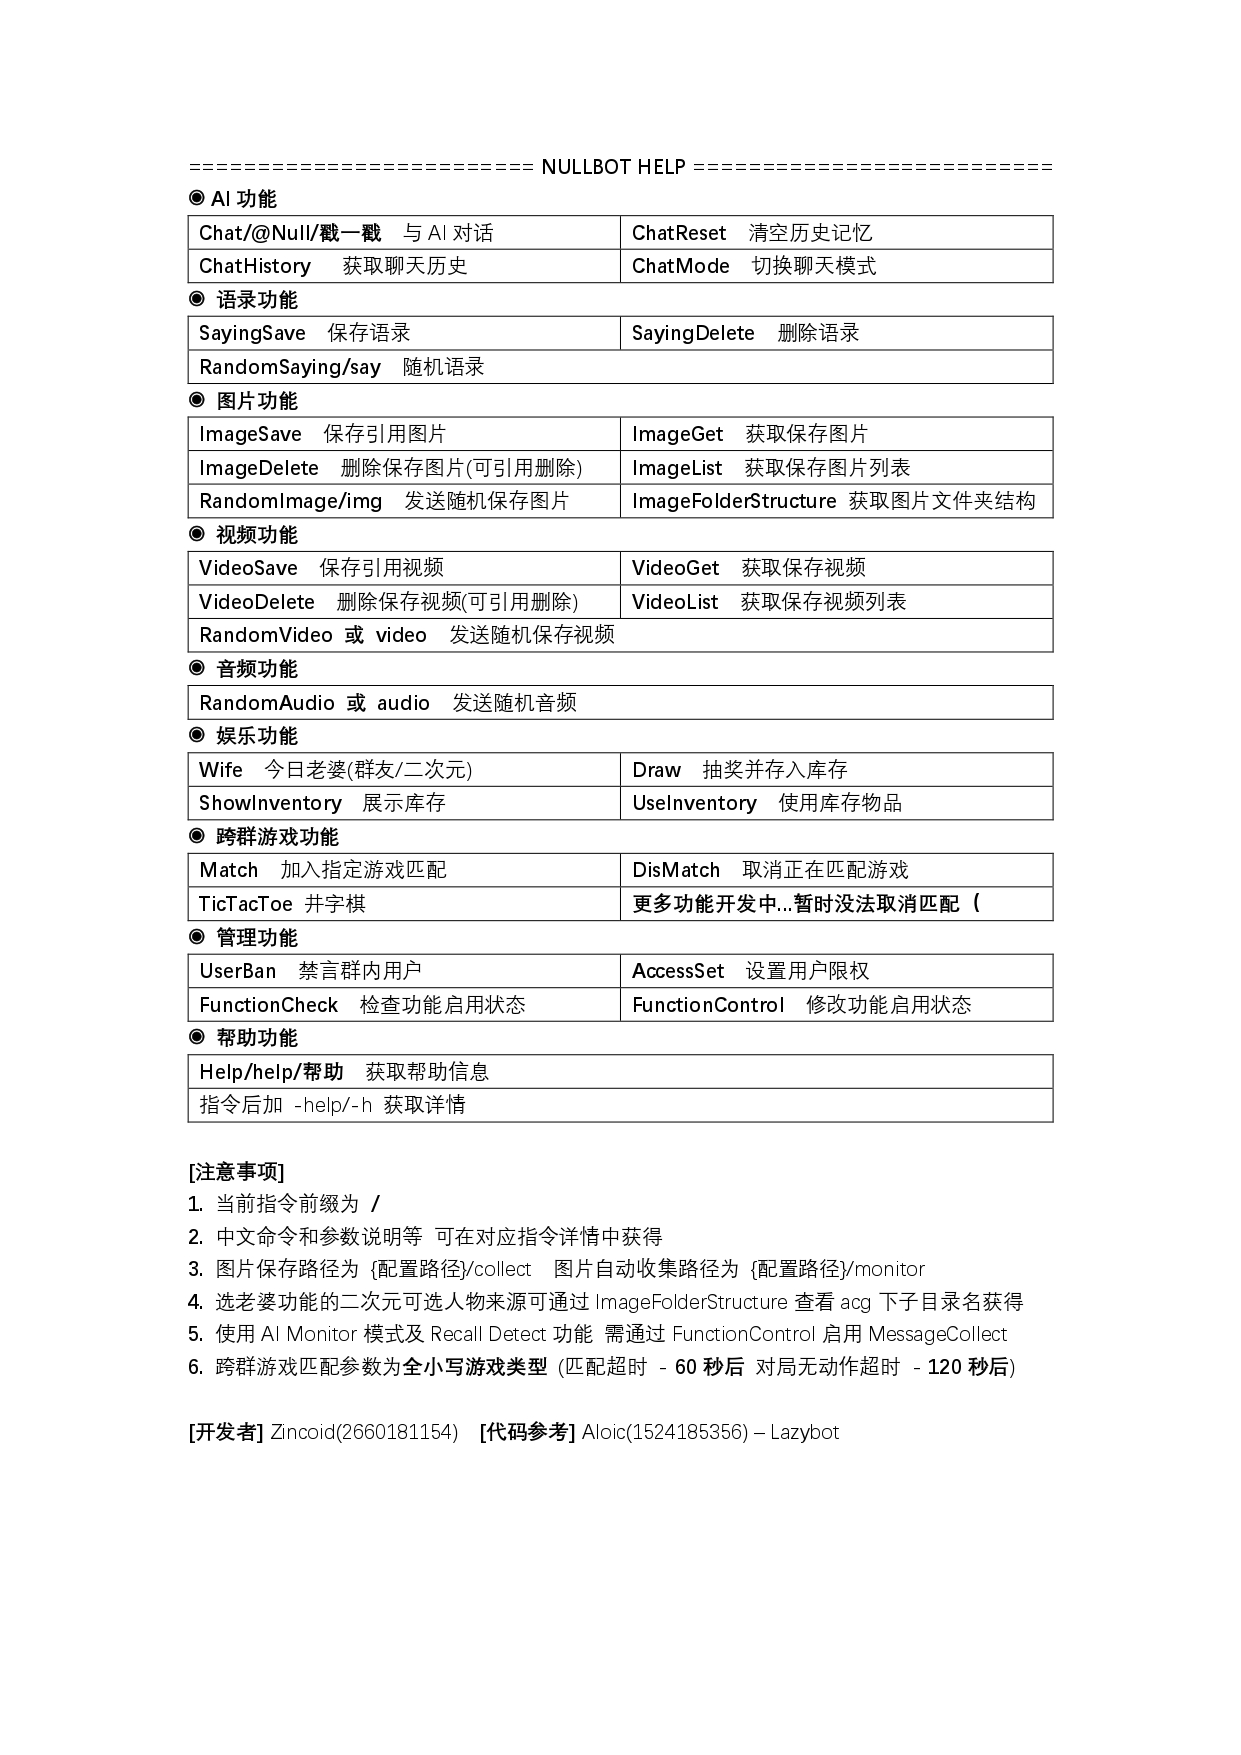
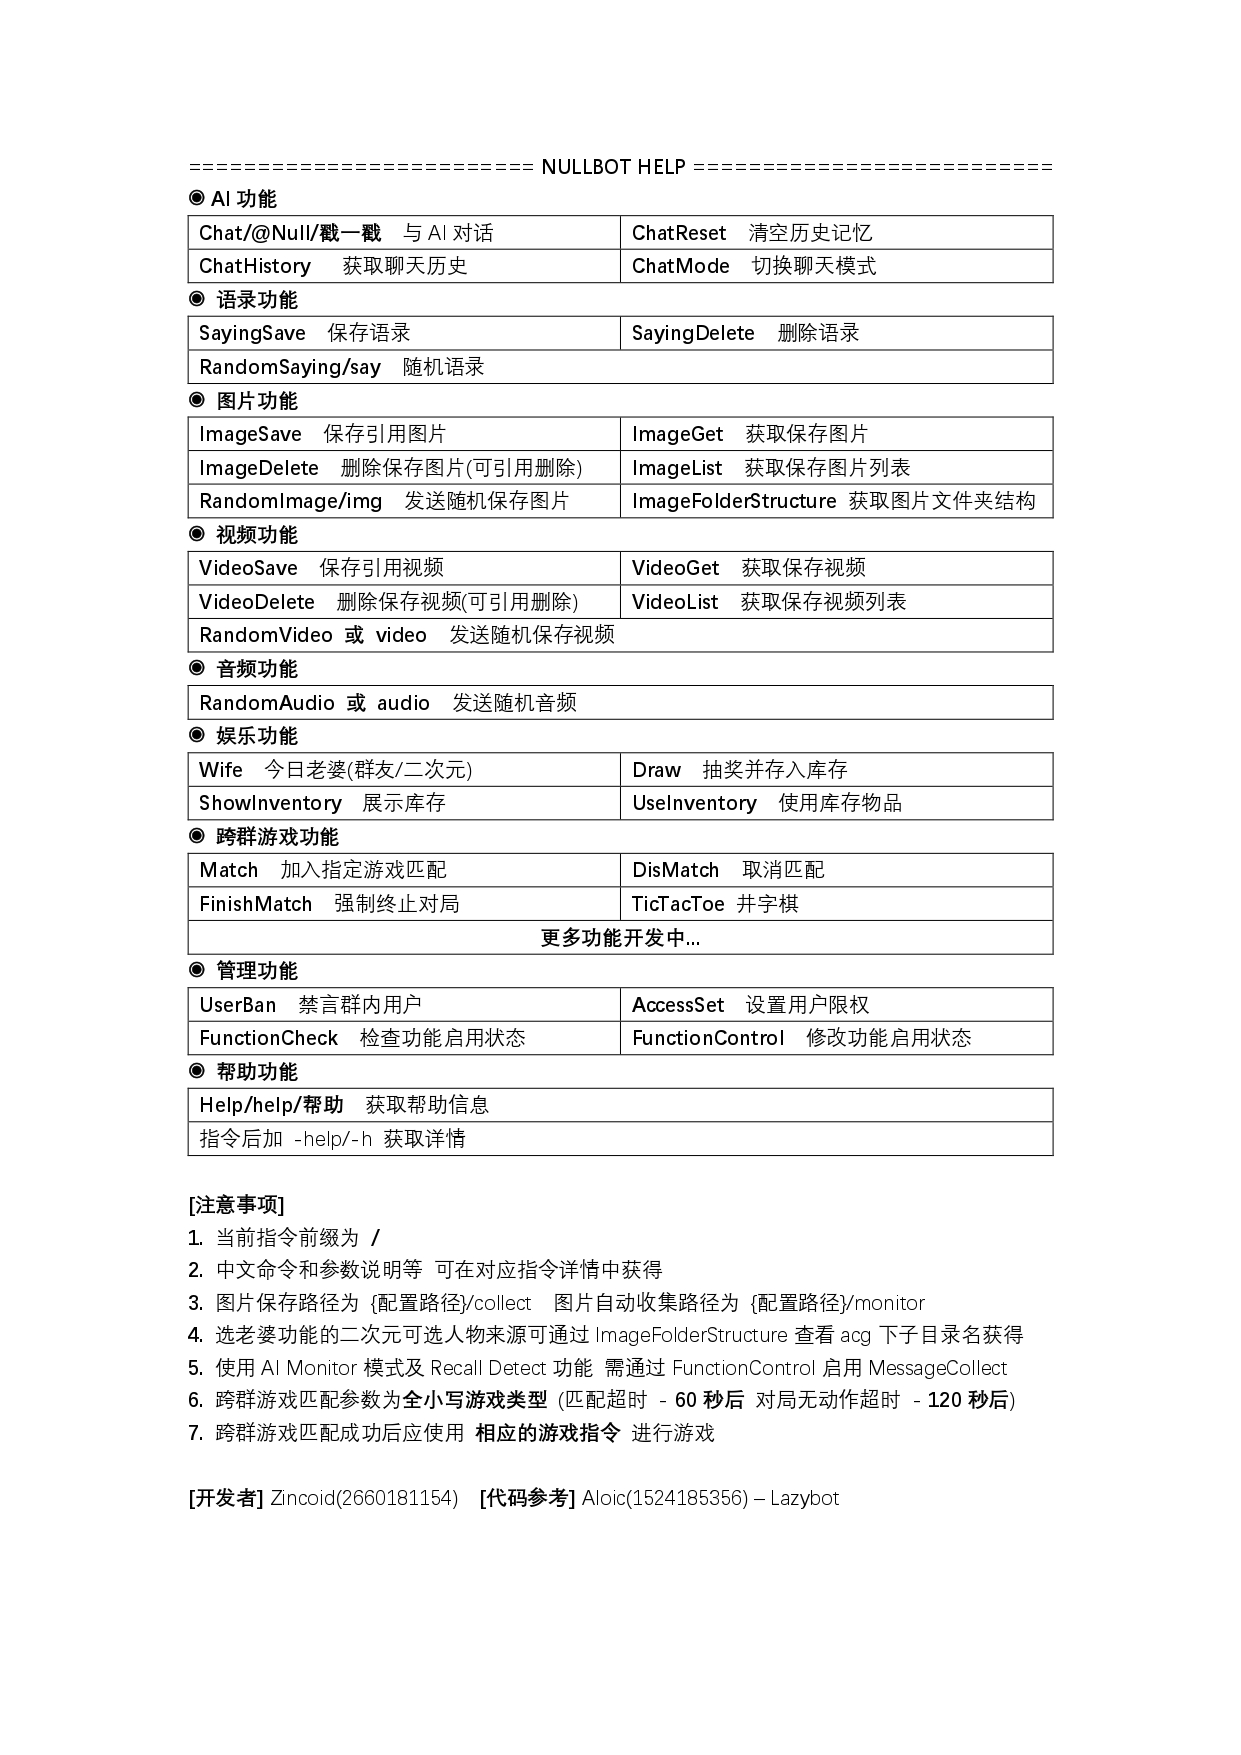
Changes

Changed region(s): [[0.1531, 0.4923, 0.8268, 0.8615], [0.4287, 0.4923, 0.7655, 0.6154]]

diff --git a/ChangeLog.md b/ChangeLog.md
@@ -37,6 +37,7 @@
 - 添加库存分页功能；
 - 优化输出内容。
 
-### 2025.12.13
+### 2025.12.13 - v0.0.5
 - 构建双人匹配游戏基础框架；
-- 构建双人游戏 - 井字棋。
+- 构建双人游戏 - 井字棋；
+- 优化框架结构和一堆Bug。